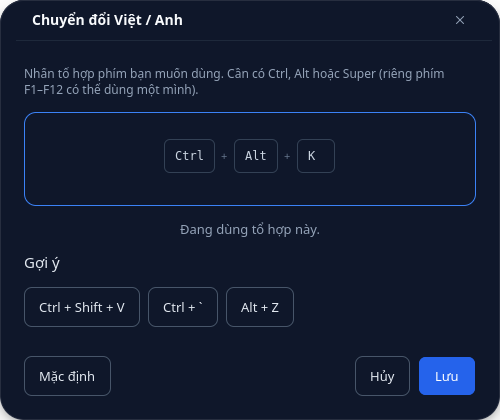
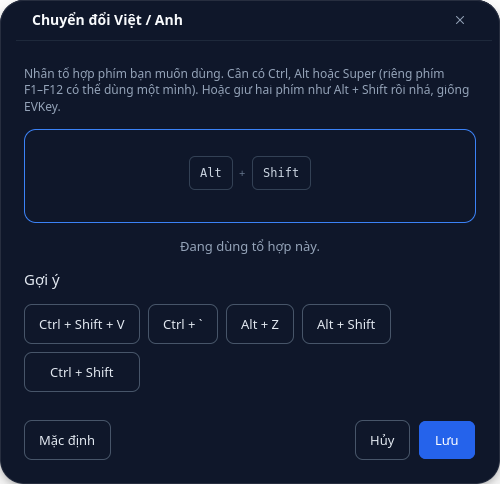
Support modifier-only shortcuts such as Alt+Shift
Shortcuts always needed a normal key, so the EVKey-style Alt+Shift (or
Ctrl+Shift) could not be assigned. Now a combination of two or more
modifiers is valid.

- baro.config accepts two or more distinct modifiers as a shortcut; a
  single modifier is still rejected (Super alone opens Activities, Alt alone
  focuses menus)
- The engine tracks modifier press and release. The chord fires when the
  modifiers are released, but only if exactly that set was held and no
  other key was pressed meanwhile, so Ctrl+Shift+V or Alt+Shift+Tab do not
  switch the mode. It fires once per hold, ignores L/R differences, never
  consumes the modifier events, and forgets stale state on focus changes,
  reset, password fields and lost release events
- The shortcut dialog recognises a chord when the keys are released and
  suggests Alt + Shift and Ctrl + Shift
- Tests: config validation, engine chord logic (11 cases), dialog sequences
  and an end-to-end check with a private ibus-daemon (fails on the old engine)
- Document it in the README

diff --git a/tests/test_engine.py b/tests/test_engine.py
@@ -142,6 +142,115 @@ class ShortcutMatchTest(unittest.TestCase):
         self.assertEqual(toggled, [True])
 
 
+class ModifierChordTest(unittest.TestCase):
+    """Modifier-only shortcuts such as alt+shift, which fire on release."""
+
+    ALT = int(IBus.ModifierType.MOD1_MASK)
+    SHIFT = int(IBus.ModifierType.SHIFT_MASK)
+    CTRL = int(IBus.ModifierType.CONTROL_MASK)
+    REL = int(IBus.ModifierType.RELEASE_MASK)
+
+    def make(self, toggle="alt+shift", enable="ctrl+alt"):
+        engine = FakeEngine()
+        engine.config["shortcut_toggle"] = toggle
+        engine.config["shortcut_enable"] = enable
+        engine.calls = []
+        engine._toggle = lambda: engine.calls.append("toggle")
+        engine._toggle_enabled = lambda: engine.calls.append("enable")
+        return engine
+
+    def test_alt_shift_fires_once_on_release(self):
+        engine = self.make()
+        engine.do_process_key_event(IBus.KEY_Alt_L, 0, 0)
+        engine.do_process_key_event(IBus.KEY_Shift_L, 0, self.ALT)
+        self.assertEqual(engine.calls, [], "nothing fires while keys are down")
+        engine.do_process_key_event(IBus.KEY_Shift_L, 0, self.REL | self.ALT | self.SHIFT)
+        self.assertEqual(engine.calls, ["toggle"])
+        engine.do_process_key_event(IBus.KEY_Alt_L, 0, self.REL | self.ALT)
+        self.assertEqual(engine.calls, ["toggle"], "second release must not fire again")
+
+    def test_order_of_pressing_does_not_matter(self):
+        engine = self.make()
+        engine.do_process_key_event(IBus.KEY_Shift_R, 0, 0)
+        engine.do_process_key_event(IBus.KEY_Alt_R, 0, self.SHIFT)
+        engine.do_process_key_event(IBus.KEY_Shift_R, 0, self.REL | self.SHIFT | self.ALT)
+        engine.do_process_key_event(IBus.KEY_Alt_R, 0, self.REL | self.ALT)
+        self.assertEqual(engine.calls, ["toggle"])
+
+    def test_another_key_in_between_cancels_it(self):
+        engine = self.make()
+        engine.do_process_key_event(IBus.KEY_Alt_L, 0, 0)
+        engine.do_process_key_event(IBus.KEY_Shift_L, 0, self.ALT)
+        engine.do_process_key_event(IBus.KEY_Tab, 0, self.ALT | self.SHIFT)
+        engine.do_process_key_event(IBus.KEY_Shift_L, 0, self.REL | self.ALT | self.SHIFT)
+        engine.do_process_key_event(IBus.KEY_Alt_L, 0, self.REL | self.ALT)
+        self.assertEqual(engine.calls, [])
+
+    def test_a_single_modifier_does_nothing(self):
+        engine = self.make()
+        engine.do_process_key_event(IBus.KEY_Alt_L, 0, 0)
+        engine.do_process_key_event(IBus.KEY_Alt_L, 0, self.REL | self.ALT)
+        self.assertEqual(engine.calls, [])
+
+    def test_extra_modifier_is_a_different_chord(self):
+        engine = self.make()
+        for keyval, state in (
+            (IBus.KEY_Control_L, 0),
+            (IBus.KEY_Alt_L, self.CTRL),
+            (IBus.KEY_Shift_L, self.CTRL | self.ALT),
+        ):
+            engine.do_process_key_event(keyval, 0, state)
+        for keyval in (IBus.KEY_Shift_L, IBus.KEY_Alt_L, IBus.KEY_Control_L):
+            engine.do_process_key_event(keyval, 0, self.REL)
+        self.assertEqual(engine.calls, [])
+
+    def test_can_fire_again_after_everything_is_released(self):
+        engine = self.make()
+        for _ in range(2):
+            engine.do_process_key_event(IBus.KEY_Alt_L, 0, 0)
+            engine.do_process_key_event(IBus.KEY_Shift_L, 0, self.ALT)
+            engine.do_process_key_event(IBus.KEY_Shift_L, 0, self.REL | self.ALT | self.SHIFT)
+            engine.do_process_key_event(IBus.KEY_Alt_L, 0, self.REL | self.ALT)
+        self.assertEqual(engine.calls, ["toggle", "toggle"])
+
+    def test_second_binding_uses_the_enable_action(self):
+        engine = self.make()
+        engine.do_process_key_event(IBus.KEY_Control_L, 0, 0)
+        engine.do_process_key_event(IBus.KEY_Alt_L, 0, self.CTRL)
+        engine.do_process_key_event(IBus.KEY_Alt_L, 0, self.REL | self.CTRL | self.ALT)
+        engine.do_process_key_event(IBus.KEY_Control_L, 0, self.REL | self.CTRL)
+        self.assertEqual(engine.calls, ["enable"])
+
+    def test_modifier_events_are_never_consumed(self):
+        engine = self.make()
+        self.assertFalse(engine.do_process_key_event(IBus.KEY_Alt_L, 0, 0))
+        self.assertFalse(engine.do_process_key_event(IBus.KEY_Shift_L, 0, self.ALT))
+        self.assertFalse(
+            engine.do_process_key_event(IBus.KEY_Shift_L, 0, self.REL | self.ALT | self.SHIFT)
+        )
+
+    def test_a_lost_release_does_not_leave_stale_state(self):
+        engine = self.make()
+        engine.do_process_key_event(IBus.KEY_Alt_L, 0, 0)  # its release never arrives
+        engine.do_process_key_event(IBus.KEY_a, 0, 0)  # plain key: no modifier is down
+        engine.do_process_key_event(IBus.KEY_Shift_L, 0, 0)
+        engine.do_process_key_event(IBus.KEY_Shift_L, 0, self.REL | self.SHIFT)
+        self.assertEqual(engine.calls, [])
+
+    def test_focus_change_forgets_held_modifiers(self):
+        engine = self.make()
+        engine.do_process_key_event(IBus.KEY_Alt_L, 0, 0)
+        engine.do_process_key_event(IBus.KEY_Shift_L, 0, self.ALT)
+        engine._reset_chord()
+        engine.do_process_key_event(IBus.KEY_Shift_L, 0, self.REL | self.ALT | self.SHIFT)
+        self.assertEqual(engine.calls, [])
+
+    def test_key_combinations_still_work_next_to_chords(self):
+        engine = self.make(toggle="ctrl+alt+k")
+        engine.do_process_key_event(IBus.KEY_k, 0, self.CTRL | self.ALT)
+        self.assertEqual(engine.calls, ["toggle"])
+
+
 class EngineKeyEventTest(unittest.TestCase):
     def test_telex_word_committed_on_space(self):
         engine = FakeEngine()

diff --git a/baro/engine.py b/baro/engine.py
@@ -65,12 +65,43 @@ def key_to_keyval(name: str):
     return None
 
 
+# Modifier keys that can form a modifier-only shortcut such as "alt+shift".
+_CHORD_MODS = {
+    IBus.KEY_Shift_L: "shift",
+    IBus.KEY_Shift_R: "shift",
+    IBus.KEY_Control_L: "ctrl",
+    IBus.KEY_Control_R: "ctrl",
+    IBus.KEY_Alt_L: "alt",
+    IBus.KEY_Alt_R: "alt",
+    IBus.KEY_Meta_L: "alt",
+    IBus.KEY_Meta_R: "alt",
+    IBus.KEY_Super_L: "super",
+    IBus.KEY_Super_R: "super",
+}
+_ANY_MODIFIER = (
+    IBus.ModifierType.CONTROL_MASK
+    | IBus.ModifierType.SHIFT_MASK
+    | IBus.ModifierType.MOD1_MASK
+    | IBus.ModifierType.SUPER_MASK
+)
+
+
+def parse_chord(spec: str):
+    """The modifiers of a modifier-only spec like "alt+shift", else None."""
+    parsed = parse_shortcut_spec(spec)
+    if parsed is None or parsed[1] is not None:
+        return None
+    return frozenset(parsed[0])
+
+
 def parse_shortcut(spec: str):
     """Return (keyval, ctrl, shift, alt, super) or None for an invalid spec."""
     parsed = parse_shortcut_spec(spec)
     if parsed is None:
         return None
     mods, key = parsed
+    if key is None:  # modifier-only: handled by parse_chord / _track_chord
+        return None
     keyval = key_to_keyval(key)
     if keyval is None:
         return None
@@ -315,6 +346,55 @@ class BaroEngine(IBus.Engine):
                 f"Nhấn {shortcut} để bật lại.",
             )
 
+    # Modifier-only shortcuts ("alt+shift", as in EVKey) fire when the modifiers
+    # are released, provided nothing else was pressed while they were down.
+    # Class-level defaults so the state exists before the first key event.
+    _chord_held: frozenset = frozenset()   # modifier keyvals currently down
+    _chord_peak: frozenset = frozenset()   # modifier names held at the same time
+    _chord_dirty = False                    # a normal key was pressed meanwhile
+    _chord_fired = False                    # already fired during this hold
+
+    def _reset_chord(self) -> None:
+        self._chord_held = frozenset()
+        self._chord_peak = frozenset()
+        self._chord_dirty = False
+        self._chord_fired = False
+
+    def _track_chord(self, keyval, state) -> None:
+        released = bool(state & IBus.ModifierType.RELEASE_MASK)
+        mod = _CHORD_MODS.get(keyval)
+        if mod is None:
+            if not released and self._chord_held:
+                if state & _ANY_MODIFIER:
+                    self._chord_dirty = True
+                else:
+                    # No modifier is really down: a release event was lost.
+                    self._reset_chord()
+            return
+        if not released:
+            self._chord_held = self._chord_held | {keyval}
+            self._chord_peak = self._chord_peak | {mod}
+            return
+        if self._chord_held and not self._chord_dirty and not self._chord_fired:
+            self._chord_fired = self._run_chord(self._chord_peak)
+        self._chord_held = self._chord_held - {keyval}
+        if not self._chord_held:
+            self._reset_chord()
+
+    def _run_chord(self, peak) -> bool:
+        """Run the action bound to exactly these modifiers; True if one ran."""
+        if peak and peak == parse_chord(
+            self.config.get("shortcut_enable", "ctrl+shift+b")
+        ):
+            self._toggle_enabled()
+            return True
+        if peak and peak == parse_chord(
+            self.config.get("shortcut_toggle", "ctrl+shift+v")
+        ):
+            self._toggle()
+            return True
+        return False
+
     def _matches_shortcut(self, keyval, state, spec: str) -> bool:
         parsed = parse_shortcut(spec)
         if parsed is None:
@@ -393,6 +473,7 @@ class BaroEngine(IBus.Engine):
         self.hide_preedit_text()
 
     def do_focus_in(self):
+        self._reset_chord()
         old_mtime = self._config_mtime
         self._reload_config()
         if self._config_mtime != old_mtime:
@@ -403,9 +484,11 @@ class BaroEngine(IBus.Engine):
         self._register_properties()
 
     def do_focus_out(self):
+        self._reset_chord()
         self._flush()
 
     def do_reset(self):
+        self._reset_chord()
         self._clear_word()
         self.hide_preedit_text()
 
@@ -432,7 +515,10 @@ class BaroEngine(IBus.Engine):
         if self._is_password():
             self._clear_word()
             self.hide_preedit_text()
+            self._reset_chord()
             return False
+
+        self._track_chord(keyval, state)
 
         if state & IBus.ModifierType.RELEASE_MASK:
             return False

diff --git a/baro/config.py b/baro/config.py
@@ -68,10 +68,18 @@ def parse_shortcut_spec(spec: object):
     Any key may be used, as long as it cannot be mistaken for typing: it needs
     Ctrl, Alt or Super held down, except the function keys F1-F35 which may be
     used alone or with Shift.
+
+    A combination of two or more modifiers alone ("alt+shift", as in EVKey) is
+    also valid and gives ({"alt", "shift"}, None): it fires when the modifiers
+    are released without another key having been pressed.
     """
     if not isinstance(spec, str):
         return None
     parts = spec.strip().lower().split("+")
+    if all(part in _SHORTCUT_MODIFIERS for part in parts):
+        if len(parts) >= 2 and len(set(parts)) == len(parts):
+            return set(parts), None
+        return None
     key = parts[-1]
     mods = parts[:-1]
     if len(set(mods)) != len(mods) or not set(mods) <= set(_SHORTCUT_MODIFIERS):
@@ -86,7 +94,8 @@ def parse_shortcut_spec(spec: object):
 def normalize_shortcut(spec: str) -> str:
     """Canonical spelling: modifiers in a fixed order, everything lowercase."""
     mods, key = parse_shortcut_spec(spec)  # type: ignore[misc]
-    return "+".join([m for m in _SHORTCUT_MODIFIERS if m in mods] + [key])
+    ordered = [m for m in _SHORTCUT_MODIFIERS if m in mods]
+    return "+".join(ordered + ([key] if key else []))
 
 
 def config_dir() -> str:

diff --git a/tests/ibus_daemon_test.py b/tests/ibus_daemon_test.py
@@ -284,6 +284,30 @@ def main() -> int:
     check(types_vietnamese("unbound"), "old shortcut did not change the mode", app.text)
     app.close()
 
+    # Modifier-only shortcut, as in EVKey: alt+shift fires when released.
+    set_config(shortcut_toggle="alt+shift", english_mode=False, start_enabled=True)
+    app = App(bus, "chord")
+    mod1 = IBus.ModifierType.MOD1_MASK
+    shift = IBus.ModifierType.SHIFT_MASK
+    release = IBus.ModifierType.RELEASE_MASK
+
+    def alt_shift(extra_key=None) -> None:
+        app.combo(IBus.KEY_Alt_L, 0)
+        app.combo(IBus.KEY_Shift_L, mod1)
+        if extra_key is not None:
+            app.combo(extra_key, mod1 | shift)
+        app.combo(IBus.KEY_Shift_L, release | mod1 | shift)
+        app.combo(IBus.KEY_Alt_L, release | mod1)
+
+    check(types_vietnamese("chord start"), "chord: starts in Vietnamese", app.text)
+    alt_shift()
+    check(not types_vietnamese("alt+shift"), "alt+shift switches to English", app.text)
+    alt_shift()
+    check(types_vietnamese("alt+shift back"), "alt+shift switches back", app.text)
+    alt_shift(IBus.KEY_Tab)
+    check(types_vietnamese("alt+shift+tab"), "alt+shift+Tab does not switch", app.text)
+    app.close()
+
     if failures:
         print(f"{failures} check(s) failed")
         return 1

diff --git a/tests/test_config.py b/tests/test_config.py
@@ -57,6 +57,17 @@ class ConfigTests(unittest.TestCase):
         ):
             self.assertFalse(config.valid_shortcut(bad), bad)
 
+    def test_modifier_only_shortcuts(self):
+        for good in ("alt+shift", "shift+alt", "ctrl+shift", "ctrl+alt", "ctrl+alt+shift"):
+            self.assertTrue(config.valid_shortcut(good), good)
+        for bad in ("alt", "shift", "super", "ctrl", "alt+alt", ""):
+            self.assertFalse(config.valid_shortcut(bad), bad)
+        self.assertEqual(config.normalize_shortcut("shift+alt"), "alt+shift")
+
+    def test_modifier_only_shortcut_round_trip(self):
+        config.save(dict(config.DEFAULTS, shortcut_toggle="alt+shift"))
+        self.assertEqual(config.load()["shortcut_toggle"], "alt+shift")
+
     def test_shortcut_is_normalized(self):
         self.assertEqual(config.normalize_shortcut("Shift+CTRL+V"), "ctrl+shift+v")
         self.assertEqual(config.normalize_shortcut("F9"), "f9")

diff --git a/tools/screenshots.py b/tools/screenshots.py
@@ -67,7 +67,7 @@ def run(app):
         app.apply_theme("dark")
         dialog = app_mod.ShortcutDialog(
             window, "Chuyển đổi Việt / Anh", app_mod.SHORTCUT_PRESETS["toggle"],
-            "ctrl+alt+k", "ctrl+shift+v", "ctrl+shift+b", "Bật / Tắt bộ gõ", lambda _s: None,
+            "alt+shift", "ctrl+shift+v", "ctrl+shift+b", "Bật / Tắt bộ gõ", lambda _s: None,
         )
         dialog.present()
 

diff --git a/README.md b/README.md
@@ -144,15 +144,23 @@ Hiện dùng **Unicode**. TCVN3 và VNI Windows hiển thị để tham khảo n
 ### Phím tắt
 
 Bấm **Thay đổi** rồi **nhấn tổ hợp phím bạn muốn** để gán cho phím chuyển Việt/Anh và phím
-bật/tắt bộ gõ. Có thể dùng bất kỳ phím nào, miễn là có Ctrl, Alt hoặc Super đi kèm
-(ví dụ `Ctrl + Alt + K`, `Super + Space`, `Ctrl + Shift + 1`); riêng các phím `F1`–`F35` dùng được
-một mình. Hộp thoại báo lỗi nếu tổ hợp không hợp lệ hoặc trùng với phím tắt còn lại, có nút
-**Mặc định** để quay về ban đầu và vài gợi ý nhanh.
+bật/tắt bộ gõ. Có hai kiểu:
+
+- **Phím kèm Ctrl, Alt hoặc Super**, ví dụ `Ctrl + Alt + K`, `Super + Space`,
+  `Ctrl + Shift + 1`. Riêng các phím `F1`–`F35` dùng được một mình.
+- **Chỉ gồm phím bổ trợ, giống EVKey**, ví dụ `Alt + Shift` hoặc `Ctrl + Shift`: giữ hai phím rồi
+  nhả. Chế độ chỉ đổi khi bạn nhả mà không bấm phím nào khác trong lúc giữ, nên `Ctrl + Shift + V`
+  (dán) hay `Alt + Shift + Tab` không làm đổi chế độ. Cần ít nhất hai phím bổ trợ khác nhau; một
+  phím bổ trợ đứng một mình không dùng được.
+
+Hộp thoại báo lỗi nếu tổ hợp không hợp lệ hoặc trùng với phím tắt còn lại, có nút **Mặc định**
+để quay về ban đầu và vài gợi ý nhanh.
 
 <p align="center"><img src="docs/screenshots/shortcut-dialog.png" alt="Gán phím tắt tự do" width="420"></p>
 
 Lưu ý: `Ctrl + Shift + V` (mặc định) là phím dán trong terminal. Nếu hay dán trong terminal, hãy đổi
-sang tổ hợp khác. Phím có Shift như `Ctrl + Shift + 1` được so khớp theo bố cục bàn phím US.
+sang tổ hợp khác. Phím có Shift như `Ctrl + Shift + 1` được so khớp theo bố cục bàn phím US. Nếu
+phiên GNOME của bạn đã dùng `Alt + Shift` để đổi bố cục bàn phím, hai chức năng sẽ cùng chạy.
 
 <p align="center"><img src="docs/screenshots/shortcuts.png" alt="Phím tắt" width="760"></p>
 
